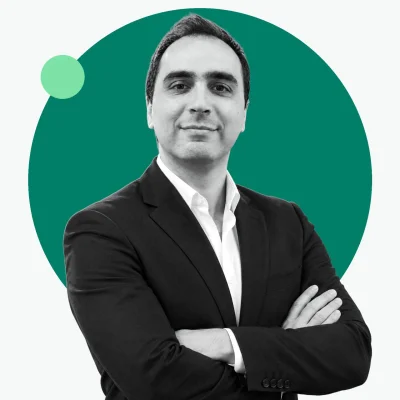
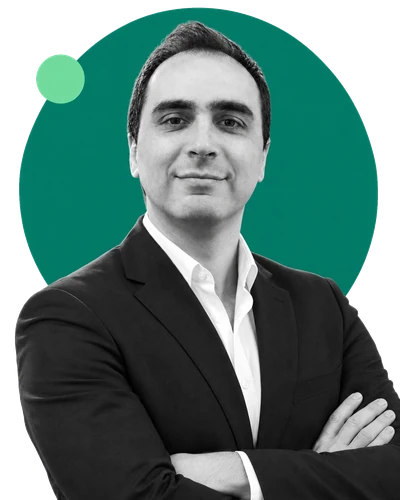
fix(team): show full portraits and align card content

diff --git a/css/production.css b/css/production.css
@@ -16,12 +16,13 @@
 .site .cookie-consent button:focus-visible,.site .cookie-preferences:focus-visible,.site .cookie-choice input:focus-visible{outline:3px solid #007e68;outline-offset:3px}
 /* Team profiles: portraits are served locally, without third-party image requests. */
 .site .team-grid{display:grid;grid-template-columns:repeat(4,minmax(0,1fr));gap:20px;margin-top:36px}
-.site .team-card{display:flex;flex-direction:column;align-items:flex-start;min-width:0;padding:24px;border:1px solid var(--line);border-radius:18px;background:var(--surface)}
-.site .team-portrait{display:block;width:160px;height:160px;max-width:100%;object-fit:cover;border-radius:16px}
-.site .team-card h3{font-size:1.25rem;line-height:1.2;margin:24px 0 12px}
-.site .team-card p{font-size:.9rem;color:var(--muted);margin:0 0 20px}
-.site .team-card .team-specialty{font-size:.85rem;font-weight:650;color:var(--green-deep)}
-.site .team-card a{margin-top:auto;color:var(--green-deep);font-size:.9rem;font-weight:600;text-underline-offset:4px}
+.site .team-card{display:flex;flex-direction:column;align-items:stretch;min-width:0;padding:24px;border:1px solid var(--line);border-radius:18px;background:var(--surface)}
+.site .team-portrait{display:block;align-self:flex-start;width:100%;height:auto;max-width:100%;object-fit:contain;object-position:left top;border-radius:16px}
+.site .team-card h3{font-size:1.25rem;line-height:1.2;min-height:2.4em;margin:24px 0 12px;text-align:left}
+.site .team-card p{font-size:.9rem;color:var(--muted);margin:0 0 20px;text-align:left}
+.site .team-card .team-specialty{font-size:.85rem;line-height:1.55;min-height:3.1em;font-weight:650;color:var(--green-deep);text-align:left}
+.site .team-card a{align-self:flex-start;margin-top:auto;color:var(--green-deep);font-size:.9rem;font-weight:600;text-underline-offset:4px}
+@supports(grid-template-rows:subgrid){.site .team-card{display:grid;grid-template-columns:minmax(0,1fr);grid-template-rows:subgrid;grid-row:span 5;row-gap:0;align-items:start}.site .team-portrait{justify-self:start}.site .team-card h3,.site .team-card .team-specialty{min-height:0}.site .team-card a{justify-self:start;align-self:end}}
 /* The Apps Garden 2026: shared visual system. Keep the legacy utility layer above for existing article markup. */
 .site{--ink:#172a25;--muted:#51645d;--green:#007e68;--green-deep:#006b59;--line:#d7e2dc;--surface:#f5f8f6;--dark:#102b25;background:#fff!important;color:var(--ink);font-family:Inter,"Helvetica Neue",Arial,sans-serif;font-size:16px;line-height:1.55}
 .site h1,.site h2,.site h3,.site h4,.site h5,.site h6,.site .h3,.site .btn{font-family:inherit}.site h1,.site h2,.site h3,.site h4{color:var(--ink);font-weight:650;letter-spacing:-.035em;line-height:1.1}.site h1{font-size:clamp(2.8rem,6.7vw,5.25rem)}.site h2{font-size:clamp(2rem,4.2vw,3.5rem)}.site h3{font-size:clamp(1.2rem,2vw,1.6rem)}.site p,.site li{line-height:1.55}.site a{color:inherit}.site a:focus-visible,.site summary:focus-visible{outline:3px solid var(--green);outline-offset:4px}.site .container{max-width:1200px;width:calc(100% - 64px)}.site .skip-link{position:absolute;top:-100px;left:16px;background:var(--ink);color:#fff;padding:12px 18px;z-index:99}.site .skip-link:focus{top:16px}.site .btn{display:inline-flex;align-items:center;justify-content:center;min-height:46px;padding:.65rem 1.45rem;font-size:.9rem;line-height:1.3;font-weight:600;border-radius:999px;white-space:normal;text-align:center;transition:background .18s ease,border-color .18s ease,color .18s ease;text-decoration:none}.site .btn--default{background:var(--green-deep);border-color:var(--green-deep);color:#fff}.site .btn--default:hover{background:#005344;border-color:#005344;color:#fff}.site .btn--outline{background:#fff;border-color:#b8cac0;color:var(--ink)}.site .btn--outline:hover{background:#eaf4ee;border-color:var(--green);color:var(--green-deep)}.site .btn--light{background:#dcf3e9;border-color:#dcf3e9;color:var(--ink)}.site .btn--light:hover{background:#fff;border-color:#fff;color:var(--ink)}.site .btn--sm{font-size:.9rem;padding:.65rem 1.35rem}.site .site-header{border-bottom:1px solid var(--line);background:#fff}.site .site-header .container{max-width:1200px}.site .header-inner{min-height:76px;display:flex;align-items:center;justify-content:space-between;gap:20px}.site .desktop-nav,.site .header-actions,.site .languages{display:flex;align-items:center;gap:22px}.site .desktop-nav a,.site .languages a{font-size:.91rem;font-weight:600;text-decoration:none}.site .desktop-nav a:hover,.site .languages a:hover,.site .desktop-nav a[aria-current=page],.site .languages a[aria-current=page]{color:var(--green)}.site .header-actions{gap:18px}.site .header-actions .btn{min-height:40px;padding:.55rem 1.25rem}.site .languages{gap:10px}.site .languages a{font-size:.72rem}.site .mobile-menu{display:none}.site .eyebrow{font-size:.72rem;font-weight:700;letter-spacing:.11em;text-transform:uppercase;color:var(--green);margin-bottom:28px}.site .status-dot{display:inline-block;width:8px;height:8px;border-radius:50%;background:var(--green);margin-right:8px}.site .hero{padding:112px 0 132px}.site .hero h1{max-width:900px;margin-bottom:28px}.site .hero-copy{max-width:650px;font-size:1.18rem;color:var(--muted);line-height:1.55}.site .actions{display:flex;gap:12px;flex-wrap:wrap;margin-top:36px}.site .section{padding:110px 0}.site .section--soft{background:var(--surface);border-top:1px solid var(--line);border-bottom:1px solid var(--line)}.site .section-heading{display:flex;justify-content:space-between;align-items:end;gap:48px;margin-bottom:46px}.site .section-heading h2{margin:0;max-width:700px}.site .section-heading .eyebrow{margin-bottom:18px}.site .section-heading>p{max-width:330px;color:var(--muted)}.site .feature-grid{display:grid;grid-template-columns:repeat(3,1fr);gap:16px}.site .feature-card{min-width:0;background:#fff;border:1px solid var(--line);border-radius:18px;padding:36px;min-height:290px}.site .card-index,.site .step-number{font:600 .8rem ui-monospace,SFMono-Regular,Menlo,monospace;color:var(--green)}.site .feature-card h3{margin:45px 0 14px}.site .feature-card p,.site .steps p{color:var(--muted)}.site .text-link{display:inline-block;margin-top:30px;text-decoration:none;color:var(--green);font-weight:600}.site .text-link:hover{text-decoration:underline}.site .showcase{display:grid;grid-template-columns:1fr 1fr;border:1px solid var(--line);border-radius:22px;overflow:hidden}.site .showcase-art{position:relative;background:#eaf4ee;display:grid;place-items:center;padding:64px 30px}.site .showcase-art img{display:block;width:min(100%,360px);height:auto}.site .showcase-label{position:absolute;left:26px;top:22px;font:600 .65rem ui-monospace,Menlo,monospace;color:var(--green);letter-spacing:.08em}.site .showcase-copy{display:flex;flex-direction:column;align-items:start;justify-content:center;padding:clamp(32px,5vw,80px)}.site .showcase-copy h3{font-size:clamp(1.8rem,3vw,2.8rem);margin-bottom:20px}.site .showcase-copy p{color:var(--muted);margin-bottom:36px}.site .steps{display:grid;grid-template-columns:repeat(4,1fr);gap:16px;list-style:none;margin:0}.site .steps li{padding:28px 22px;border-top:1px solid #a4beb0}.site .steps h3{margin:30px 0 12px}.site .section--dark{background:var(--dark);color:#fff;border:0}.site .dark-inner{display:flex;justify-content:space-between;align-items:center;gap:48px}.site .section--dark h2{color:#fff;max-width:660px}.site .section--dark .eyebrow{color:#84d5b2}.site .section--dark p:not(.eyebrow){color:#c7d9ce;max-width:570px;font-size:1.1rem}.site .site-footer{padding:75px 0 24px;background:#fff}.site .footer-grid{display:grid;grid-template-columns:2fr 1fr 1fr;gap:48px;padding-bottom:84px}.site .footer-grid .footer-brand .brand{display:inline-flex;color:var(--green);margin-bottom:22px}.site .footer-brand p{color:var(--muted);max-width:270px}.site .footer-grid h2{font-size:.83rem;letter-spacing:0;margin:6px 0 22px}.site .footer-grid a{display:block;margin:0 0 12px;text-decoration:none;color:var(--muted);font-size:.87rem;overflow-wrap:anywhere}.site .footer-grid a:hover,.site .footer-bottom a:hover{color:var(--green)}.site .footer-bottom{display:flex;justify-content:space-between;gap:20px;border-top:1px solid var(--line);padding-top:22px;color:var(--muted);font-size:.8rem}.site .footer-bottom a{margin-left:14px;text-decoration:none;font-weight:600}.site .page-hero{background:var(--surface);border-bottom:1px solid var(--line);padding:100px 0 90px}.site .page-hero h1{max-width:950px;margin-bottom:24px}.site .page-intro{max-width:710px;font-size:1.18rem;color:var(--muted)}.site .article-date{color:var(--muted);margin-top:20px;font-size:.85rem}.site .page-content{padding:70px 0 115px}.site .page-content .container{max-width:1200px}.site .page-content section{padding-top:30px;padding-bottom:55px}.site .page-content section h2{margin-bottom:30px}.site .page-content .grid-row{row-gap:16px}.site .page-content .grid-column{min-width:0}.site .page-content .blockquote{background:var(--surface);border:1px solid var(--line);border-radius:16px;padding:26px;height:100%;margin:0;font-family:inherit}.site .page-content .blockquote p+p{margin-top:14px;color:var(--muted)}.site .page-content .blockquote cite{color:var(--ink)}.site .page-content .grid-column>.blockquote+.blockquote{margin-top:16px}.site .page-content .grid-column{display:flex;flex-direction:column}.site .page-content .list--inline{font-size:1rem;list-style:disc;padding-left:22px;text-align:left}.site .page-content .list--inline li{display:list-item;font-size:1rem;margin-bottom:12px}.site .page-content .align--center .list--inline{text-align:left}.site .page-content .product-card{display:grid;grid-template-columns:1fr 1.5fr;max-width:1000px;margin:0 auto 30px;background:#fff;border:1px solid var(--line);border-radius:20px;overflow:hidden}.site .product-card>div:first-child{display:grid;place-items:center;padding:36px;background:#eaf4ee}.site .product-card>div:last-child{display:flex;flex-direction:column;align-items:start;justify-content:center;padding:48px}.site .product-card img{width:100%;max-width:280px;height:auto}.site .product-card p{margin-bottom:26px;color:var(--muted)}.site .page--products .page-content>div>.container{max-width:860px}.site .page--products .page-content .product-list{max-width:1100px;margin:auto}.site .page--products .page-content img{max-height:400px;object-fit:contain}.site .page--blog .blog-list{max-width:850px;text-align:left}.site .blog-list article{background:#fff;border:1px solid var(--line);border-radius:18px;padding:34px;margin-bottom:16px}.site .blog-list article h2{font-size:1.4rem;margin-bottom:12px}.site .page--blog .blog-list article h2 a.link{color:var(--ink);text-decoration:none}.site .page--blog .blog-list article h2 a.link:hover{color:var(--green)}.site .blog-list article p{margin-bottom:16px}.site .blog-list article .small{color:var(--muted)}.site .empty-state{border:1px solid var(--line);border-radius:18px;padding:52px;text-align:center}.site .empty-state p{margin-bottom:26px}.site .article-content{max-width:800px!important}.site .article-content article h2{font-size:1.8rem;margin:36px 0 18px}.site .article-content article h3{margin:28px 0 14px}.site .article-content article p,.site .article-content article ul{margin-bottom:22px;overflow-wrap:anywhere}.site .article-content article a,.site .page-content .link{color:var(--green)}.site .article-content article blockquote{padding:24px;border-left:3px solid var(--green);background:var(--surface)}.site .page-content .result-panel{background:var(--dark);color:#fff;border-radius:18px;padding:36px}.site .page-content .result-panel h3,.site .page-content .result-panel h4{color:#fff}.site .page-content .result-panel .grid-column{display:block}

diff --git a/es/about.html b/es/about.html
@@ -15,7 +15,7 @@
   <meta property="og:image" content="https://theappsgarden.com/img/process-to-progress.webp">
   <link rel="icon" href="../ico/favicon.ico">
   <link rel="apple-touch-icon" href="../ico/apple-touch-icon.png">
-  <link rel="stylesheet" href="../css/production.css?v=20260929-workflow-stack">
+  <link rel="stylesheet" href="../css/production.css?v=team-cards-aligned-1">
   <link rel="stylesheet" href="../css/responsive-overrides.css">
   <script defer src="../js/production.js"></script>
 </head>
@@ -24,10 +24,10 @@
   <header class="site-header"><div class="container header-inner"><a class="brand" href="../es/index.html" aria-label="The Apps Garden — Inicio"><img class="brand-mark" src="../img/green_logo_no_name.svg" alt="" width="85" height="119" aria-hidden="true"><span class="brand-name" aria-hidden="true">The Apps Garden</span></a><nav class="desktop-nav" aria-label="Recursos"><a href="../es/about.html" aria-current="page">Nosotros</a><a href="../es/services.html">Servicios</a><a href="../es/products.html">Productos</a></nav><div class="header-actions"><div class="languages" aria-label="Idiomas"><a href="../es/about.html" aria-current="page" lang="es" hreflang="es">ES</a><a href="../en/about.html" lang="en" hreflang="en">EN</a><a href="../cat/about.html" lang="ca" hreflang="ca">CAT</a></div><a class="btn btn--default" href="../es/index.html#contact">Hablemos</a></div><details class="mobile-menu"><summary aria-label="Abrir navegación">Menú <span aria-hidden="true">☰</span></summary><nav aria-label="Recursos"><a href="../es/about.html" aria-current="page">Nosotros</a><a href="../es/services.html">Servicios</a><a href="../es/products.html">Productos</a><div class="mobile-languages"><a href="../es/about.html" lang="es">ES</a><a href="../en/about.html" lang="en">EN</a><a href="../cat/about.html" lang="ca">CAT</a></div><a class="btn btn--default" href="../es/index.html#contact">Hablemos</a></nav></details></div></header>
   <main id="main" class="consulting-page">
 <section class="page-hero"><div class="container"><p class="eyebrow">THE APPS GARDEN / AI</p><h1>Las personas detrás de The Apps Garden</h1><p class="page-intro">Cuatro trayectorias distintas y un proyecto compartido: hacer que la tecnología sea útil para quienes trabajan con ella.</p><div class="actions"><a class="btn btn--default" href="../es/index.html#contact">Pide una primera reunión gratuita</a></div></div></section><section class="section"><div class="container"><h2>Nosotros</h2><p>The Apps Garden nace de una frustración compartida: las empresas oyen hablar de IA a diario, pero nadie les dice cuál usar, cuánto cuesta de verdad ni cómo encaja con lo que ya tienen. Nosotros llevamos años usando estas herramientas en proyectos reales. Por eso sabemos distinguir lo útil del ruido. Nuestro único criterio es lo que mejor le va a tu empresa.</p></div></section><section class="section" id="team" aria-labelledby="team-title"><div class="container"><h2 id="team-title">El equipo</h2><p class="lead">Cuatro trayectorias que combinan operaciones, dirección, desarrollo de software y creación audiovisual.</p><div class="team-grid">
-<article class="team-card"><img class="team-portrait" src="../img/team/guillem-gutierrez-martinez.webp?v=owner-portrait-1" alt="Guillem Gutierrez Martinez" width="400" height="400" loading="lazy"><h3>Guillem Gutierrez Martinez</h3><p class="team-specialty">Consultor de IA · Operaciones</p><p>Experiencia en dirección de proyectos de maquinaria industrial, desde el diseño hasta la puesta en marcha. Formación de máster en producción y gestión audiovisual, con foco en planificación, guion y coordinación de equipos.</p><a href="https://www.linkedin.com/in/guillem-gutierrez-martinez-bb04875b/" target="_blank" rel="noopener noreferrer" aria-label="LinkedIn de Guillem Gutierrez Martinez">LinkedIn ↗</a></article>
-<article class="team-card"><img class="team-portrait" src="../img/team/adria-gutierrez-martinez.webp" alt="Adrià Gutiérrez Martínez" width="200" height="200" loading="lazy"><h3>Adrià Gutiérrez Martínez</h3><p class="team-specialty">Consultor de IA · Operaciones</p><p>Ingeniero TIC y director general con experiencia en operaciones y gestión de proyectos. Combina una perspectiva técnica con la visión de dirección para entender las necesidades del negocio.</p><a href="https://www.linkedin.com/in/adri%C3%A0-guti%C3%A9rrez-mart%C3%ADnez-a83149112/" target="_blank" rel="noopener noreferrer" aria-label="LinkedIn de Adrià Gutiérrez Martínez">LinkedIn ↗</a></article>
-<article class="team-card"><img class="team-portrait" src="../img/team/adria-martin-torrens.webp" alt="Adrià Martín Torrens" width="200" height="200" loading="lazy"><h3>Adrià Martín Torrens</h3><p class="team-specialty">Consultor de IA · Área técnica</p><p>Trayectoria profesional vinculada a Cegid Revo y experiencia en desarrollo de aplicaciones. Su proyecto de aplicación Android para registrar gastos comerciales conectaba el trabajo del equipo con el software de gestión.</p><a href="https://www.linkedin.com/in/adria-martin-torrens/" target="_blank" rel="noopener noreferrer" aria-label="LinkedIn de Adrià Martín Torrens">LinkedIn ↗</a></article>
-<article class="team-card"><img class="team-portrait" src="../img/team/damian-martinez-carmona.webp?v=owner-portrait-1" alt="Damián Martínez Carmona" width="400" height="400" loading="lazy"><h3>Damián Martínez Carmona</h3><p class="team-specialty">Consultor de IA · Área técnica</p><p>Emprendedor tecnológico e ingeniero con experiencia creando productos digitales y plataformas de datos. Su trabajo se centra en la intersección entre IA, ingeniería de datos y automatización de tareas.</p><a href="https://www.linkedin.com/in/damian-martinez-carmona" target="_blank" rel="noopener noreferrer" aria-label="LinkedIn de Damián Martínez Carmona">LinkedIn ↗</a></article>
+<article class="team-card"><img class="team-portrait" src="../img/team/guillem-gutierrez-martinez.webp?v=owner-portrait-4" alt="Guillem Gutierrez Martinez" width="400" height="500" loading="lazy"><h3>Guillem Gutierrez Martinez</h3><p class="team-specialty">Consultor de IA · Operaciones</p><p>Experiencia en dirección de proyectos de maquinaria industrial, desde el diseño hasta la puesta en marcha. Formación de máster en producción y gestión audiovisual, con foco en planificación, guion y coordinación de equipos.</p><a href="https://www.linkedin.com/in/guillem-gutierrez-martinez-bb04875b/" target="_blank" rel="noopener noreferrer" aria-label="LinkedIn de Guillem Gutierrez Martinez">LinkedIn ↗</a></article>
+<article class="team-card"><img class="team-portrait" src="../img/team/adria-gutierrez-martinez.webp?v=owner-portrait-3" alt="Adrià Gutiérrez Martínez" width="400" height="500" loading="lazy"><h3>Adrià Gutiérrez Martínez</h3><p class="team-specialty">Consultor de IA · Operaciones</p><p>Ingeniero TIC y director general con experiencia en operaciones y gestión de proyectos. Combina una perspectiva técnica con la visión de dirección para entender las necesidades del negocio.</p><a href="https://www.linkedin.com/in/adri%C3%A0-guti%C3%A9rrez-mart%C3%ADnez-a83149112/" target="_blank" rel="noopener noreferrer" aria-label="LinkedIn de Adrià Gutiérrez Martínez">LinkedIn ↗</a></article>
+<article class="team-card"><img class="team-portrait" src="../img/team/adria-martin-torrens.webp?v=owner-portrait-3" alt="Adrià Martín Torrens" width="400" height="500" loading="lazy"><h3>Adrià Martín Torrens</h3><p class="team-specialty">Consultor de IA · Área técnica</p><p>Trayectoria profesional vinculada a Cegid Revo y experiencia en desarrollo de aplicaciones. Su proyecto de aplicación Android para registrar gastos comerciales conectaba el trabajo del equipo con el software de gestión.</p><a href="https://www.linkedin.com/in/adria-martin-torrens/" target="_blank" rel="noopener noreferrer" aria-label="LinkedIn de Adrià Martín Torrens">LinkedIn ↗</a></article>
+<article class="team-card"><img class="team-portrait" src="../img/team/damian-martinez-carmona.webp?v=owner-portrait-3" alt="Damián Martínez Carmona" width="400" height="500" loading="lazy"><h3>Damián Martínez Carmona</h3><p class="team-specialty">Consultor de IA · Área técnica</p><p>Emprendedor tecnológico e ingeniero con experiencia creando productos digitales y plataformas de datos. Su trabajo se centra en la intersección entre IA, ingeniería de datos y automatización de tareas.</p><a href="https://www.linkedin.com/in/damian-martinez-carmona" target="_blank" rel="noopener noreferrer" aria-label="LinkedIn de Damián Martínez Carmona">LinkedIn ↗</a></article>
 </div></div></section><section class="section section--dark" id="contact"><div class="container dark-inner"><div><h2>Conozcámonos en una primera conversación</h2><p>Cuéntanos cómo es tu equipo y qué trabajo os gustaría mejorar.</p><a class="text-link" id="process" href="../es/index.html#process">Ver cómo trabajamos ↗</a></div><a class="btn btn--light" href="../es/index.html#contact">Hablar con el equipo</a></div></section>
 </main>
   <footer class="site-footer"><div class="container"><div class="footer-grid"><div class="footer-brand"><a class="brand" href="../es/index.html" aria-label="The Apps Garden — Inicio"><img class="brand-mark" src="../img/green_logo_no_name.svg" alt="" width="85" height="119" aria-hidden="true"><span class="brand-name" aria-hidden="true">The Apps Garden</span></a><p>Consultoría independiente de inteligencia artificial</p></div><div><h2>The Apps Garden</h2><a href="../es/index.html">Inicio</a><a href="../es/about.html">Nosotros</a><a href="../es/services.html">Servicios</a><a href="../es/products.html">Productos</a></div><div><h2>Hablemos</h2><a href="mailto:team@theappsgarden.com">team@theappsgarden.com</a><a href="https://www.linkedin.com/company/the-apps-garden" target="_blank" rel="noopener noreferrer">LinkedIn ↗</a><a href="https://www.instagram.com/theappsgarden/" target="_blank" rel="noopener noreferrer">Instagram ↗</a></div></div><div class="footer-bottom"><span>© The Apps Garden · Todos los derechos reservados.</span><div><a href="../es/about.html" lang="es">ES</a><a href="../en/about.html" lang="en">EN</a><a href="../cat/about.html" lang="ca">CAT</a></div></div></div></footer>

diff --git a/cat/about.html b/cat/about.html
@@ -15,7 +15,7 @@
   <meta property="og:image" content="https://theappsgarden.com/img/process-to-progress.webp">
   <link rel="icon" href="../ico/favicon.ico">
   <link rel="apple-touch-icon" href="../ico/apple-touch-icon.png">
-  <link rel="stylesheet" href="../css/production.css?v=20260929-workflow-stack">
+  <link rel="stylesheet" href="../css/production.css?v=team-cards-aligned-1">
   <link rel="stylesheet" href="../css/responsive-overrides.css">
   <script defer src="../js/production.js"></script>
 </head>
@@ -24,10 +24,10 @@
   <header class="site-header"><div class="container header-inner"><a class="brand" href="../cat/index.html" aria-label="The Apps Garden — Inici"><img class="brand-mark" src="../img/green_logo_no_name.svg" alt="" width="85" height="119" aria-hidden="true"><span class="brand-name" aria-hidden="true">The Apps Garden</span></a><nav class="desktop-nav" aria-label="Recursos"><a href="../cat/about.html" aria-current="page">Nosaltres</a><a href="../cat/services.html">Serveis</a><a href="../cat/products.html">Productes</a></nav><div class="header-actions"><div class="languages" aria-label="Idiomes"><a href="../es/about.html" lang="es" hreflang="es">ES</a><a href="../en/about.html" lang="en" hreflang="en">EN</a><a href="../cat/about.html" aria-current="page" lang="ca" hreflang="ca">CAT</a></div><a class="btn btn--default" href="../cat/index.html#contact">Parlem-ne</a></div><details class="mobile-menu"><summary aria-label="Obrir la navegació">Menú <span aria-hidden="true">☰</span></summary><nav aria-label="Recursos"><a href="../cat/about.html" aria-current="page">Nosaltres</a><a href="../cat/services.html">Serveis</a><a href="../cat/products.html">Productes</a><div class="mobile-languages"><a href="../es/about.html" lang="es">ES</a><a href="../en/about.html" lang="en">EN</a><a href="../cat/about.html" lang="ca">CAT</a></div><a class="btn btn--default" href="../cat/index.html#contact">Parlem-ne</a></nav></details></div></header>
   <main id="main" class="consulting-page">
 <section class="page-hero"><div class="container"><p class="eyebrow">THE APPS GARDEN / AI</p><h1>Les persones darrere de The Apps Garden</h1><p class="page-intro">Quatre trajectòries diferents i un projecte compartit: fer que la tecnologia sigui útil per a qui hi treballa.</p><div class="actions"><a class="btn btn--default" href="../cat/index.html#contact">Demana una primera reunió gratuïta</a></div></div></section><section class="section"><div class="container"><h2>Nosaltres</h2><p>The Apps Garden neix d’una frustració compartida: les empreses senten parlar d’IA cada dia, però ningú no els diu quina fer servir, quant costa de debò ni com encaixa amb el que ja tenen. Fa anys que utilitzem aquestes eines en projectes reals. Per això sabem distingir allò que és útil del soroll. El nostre únic criteri és el que va millor a la teva empresa.</p></div></section><section class="section" id="team" aria-labelledby="team-title"><div class="container"><h2 id="team-title">L’equip</h2><p class="lead">Quatre trajectòries que combinen operacions, direcció, desenvolupament de programari i creació audiovisual.</p><div class="team-grid">
-<article class="team-card"><img class="team-portrait" src="../img/team/guillem-gutierrez-martinez.webp?v=owner-portrait-1" alt="Guillem Gutierrez Martinez" width="400" height="400" loading="lazy"><h3>Guillem Gutierrez Martinez</h3><p class="team-specialty">Consultor d’IA · Operacions</p><p>Experiència en direcció de projectes de maquinària industrial, des del disseny fins a la posada en marxa. Formació de màster en producció i gestió audiovisual, amb focus en planificació, guió i coordinació d’equips.</p><a href="https://www.linkedin.com/in/guillem-gutierrez-martinez-bb04875b/" target="_blank" rel="noopener noreferrer" aria-label="LinkedIn de Guillem Gutierrez Martinez">LinkedIn ↗</a></article>
-<article class="team-card"><img class="team-portrait" src="../img/team/adria-gutierrez-martinez.webp" alt="Adrià Gutiérrez Martínez" width="200" height="200" loading="lazy"><h3>Adrià Gutiérrez Martínez</h3><p class="team-specialty">Consultor d’IA · Operacions</p><p>Enginyer TIC i director general amb experiència en operacions i gestió de projectes. Combina una perspectiva tècnica amb la visió de direcció per entendre les necessitats del negoci.</p><a href="https://www.linkedin.com/in/adri%C3%A0-guti%C3%A9rrez-mart%C3%ADnez-a83149112/" target="_blank" rel="noopener noreferrer" aria-label="LinkedIn d’Adrià Gutiérrez Martínez">LinkedIn ↗</a></article>
-<article class="team-card"><img class="team-portrait" src="../img/team/adria-martin-torrens.webp" alt="Adrià Martín Torrens" width="200" height="200" loading="lazy"><h3>Adrià Martín Torrens</h3><p class="team-specialty">Consultor d’IA · Àrea tècnica</p><p>Trajectòria professional vinculada a Cegid Revo i experiència en desenvolupament d’aplicacions. El seu projecte d’aplicació Android per registrar despeses comercials connectava la feina de l’equip amb el programari de gestió.</p><a href="https://www.linkedin.com/in/adria-martin-torrens/" target="_blank" rel="noopener noreferrer" aria-label="LinkedIn d’Adrià Martín Torrens">LinkedIn ↗</a></article>
-<article class="team-card"><img class="team-portrait" src="../img/team/damian-martinez-carmona.webp?v=owner-portrait-1" alt="Damián Martínez Carmona" width="400" height="400" loading="lazy"><h3>Damián Martínez Carmona</h3><p class="team-specialty">Consultor d’IA · Àrea tècnica</p><p>Emprenedor tecnològic i enginyer amb experiència creant productes digitals i plataformes de dades. Se centra en la intersecció entre IA, enginyeria de dades i automatització de tasques.</p><a href="https://www.linkedin.com/in/damian-martinez-carmona" target="_blank" rel="noopener noreferrer" aria-label="LinkedIn de Damián Martínez Carmona">LinkedIn ↗</a></article>
+<article class="team-card"><img class="team-portrait" src="../img/team/guillem-gutierrez-martinez.webp?v=owner-portrait-4" alt="Guillem Gutierrez Martinez" width="400" height="500" loading="lazy"><h3>Guillem Gutierrez Martinez</h3><p class="team-specialty">Consultor d’IA · Operacions</p><p>Experiència en direcció de projectes de maquinària industrial, des del disseny fins a la posada en marxa. Formació de màster en producció i gestió audiovisual, amb focus en planificació, guió i coordinació d’equips.</p><a href="https://www.linkedin.com/in/guillem-gutierrez-martinez-bb04875b/" target="_blank" rel="noopener noreferrer" aria-label="LinkedIn de Guillem Gutierrez Martinez">LinkedIn ↗</a></article>
+<article class="team-card"><img class="team-portrait" src="../img/team/adria-gutierrez-martinez.webp?v=owner-portrait-3" alt="Adrià Gutiérrez Martínez" width="400" height="500" loading="lazy"><h3>Adrià Gutiérrez Martínez</h3><p class="team-specialty">Consultor d’IA · Operacions</p><p>Enginyer TIC i director general amb experiència en operacions i gestió de projectes. Combina una perspectiva tècnica amb la visió de direcció per entendre les necessitats del negoci.</p><a href="https://www.linkedin.com/in/adri%C3%A0-guti%C3%A9rrez-mart%C3%ADnez-a83149112/" target="_blank" rel="noopener noreferrer" aria-label="LinkedIn d’Adrià Gutiérrez Martínez">LinkedIn ↗</a></article>
+<article class="team-card"><img class="team-portrait" src="../img/team/adria-martin-torrens.webp?v=owner-portrait-3" alt="Adrià Martín Torrens" width="400" height="500" loading="lazy"><h3>Adrià Martín Torrens</h3><p class="team-specialty">Consultor d’IA · Àrea tècnica</p><p>Trajectòria professional vinculada a Cegid Revo i experiència en desenvolupament d’aplicacions. El seu projecte d’aplicació Android per registrar despeses comercials connectava la feina de l’equip amb el programari de gestió.</p><a href="https://www.linkedin.com/in/adria-martin-torrens/" target="_blank" rel="noopener noreferrer" aria-label="LinkedIn d’Adrià Martín Torrens">LinkedIn ↗</a></article>
+<article class="team-card"><img class="team-portrait" src="../img/team/damian-martinez-carmona.webp?v=owner-portrait-3" alt="Damián Martínez Carmona" width="400" height="500" loading="lazy"><h3>Damián Martínez Carmona</h3><p class="team-specialty">Consultor d’IA · Àrea tècnica</p><p>Emprenedor tecnològic i enginyer amb experiència creant productes digitals i plataformes de dades. Se centra en la intersecció entre IA, enginyeria de dades i automatització de tasques.</p><a href="https://www.linkedin.com/in/damian-martinez-carmona" target="_blank" rel="noopener noreferrer" aria-label="LinkedIn de Damián Martínez Carmona">LinkedIn ↗</a></article>
 </div></div></section><section class="section section--dark" id="contact"><div class="container dark-inner"><div><h2>Coneguem-nos en una primera conversa</h2><p>Explica’ns com és el teu equip i quina feina us agradaria millorar.</p><a class="text-link" id="process" href="../cat/index.html#process">Mira com treballem ↗</a></div><a class="btn btn--light" href="../cat/index.html#contact">Parlar amb l’equip</a></div></section>
 </main>
   <footer class="site-footer"><div class="container"><div class="footer-grid"><div class="footer-brand"><a class="brand" href="../cat/index.html" aria-label="The Apps Garden — Inici"><img class="brand-mark" src="../img/green_logo_no_name.svg" alt="" width="85" height="119" aria-hidden="true"><span class="brand-name" aria-hidden="true">The Apps Garden</span></a><p>Consultoria independent d’intel·ligència artificial</p></div><div><h2>The Apps Garden</h2><a href="../cat/index.html">Inici</a><a href="../cat/about.html">Nosaltres</a><a href="../cat/services.html">Serveis</a><a href="../cat/products.html">Productes</a></div><div><h2>Parlem-ne</h2><a href="mailto:team@theappsgarden.com">team@theappsgarden.com</a><a href="https://www.linkedin.com/company/the-apps-garden" target="_blank" rel="noopener noreferrer">LinkedIn ↗</a><a href="https://www.instagram.com/theappsgarden/" target="_blank" rel="noopener noreferrer">Instagram ↗</a></div></div><div class="footer-bottom"><span>© The Apps Garden · Tots els drets reservats.</span><div><a href="../es/about.html" lang="es">ES</a><a href="../en/about.html" lang="en">EN</a><a href="../cat/about.html" lang="ca">CAT</a></div></div></div></footer>

diff --git a/en/about.html b/en/about.html
@@ -15,7 +15,7 @@
   <meta property="og:image" content="https://theappsgarden.com/img/process-to-progress.webp">
   <link rel="icon" href="../ico/favicon.ico">
   <link rel="apple-touch-icon" href="../ico/apple-touch-icon.png">
-  <link rel="stylesheet" href="../css/production.css?v=20260929-workflow-stack">
+  <link rel="stylesheet" href="../css/production.css?v=team-cards-aligned-1">
   <link rel="stylesheet" href="../css/responsive-overrides.css">
   <script defer src="../js/production.js"></script>
 </head>
@@ -24,10 +24,10 @@
   <header class="site-header"><div class="container header-inner"><a class="brand" href="../en/index.html" aria-label="The Apps Garden — Home"><img class="brand-mark" src="../img/green_logo_no_name.svg" alt="" width="85" height="119" aria-hidden="true"><span class="brand-name" aria-hidden="true">The Apps Garden</span></a><nav class="desktop-nav" aria-label="Resources"><a href="../en/about.html" aria-current="page">About us</a><a href="../en/services.html">Services</a><a href="../en/products.html">Products</a></nav><div class="header-actions"><div class="languages" aria-label="Languages"><a href="../es/about.html" lang="es" hreflang="es">ES</a><a href="../en/about.html" aria-current="page" lang="en" hreflang="en">EN</a><a href="../cat/about.html" lang="ca" hreflang="ca">CAT</a></div><a class="btn btn--default" href="../en/index.html#contact">Get in touch</a></div><details class="mobile-menu"><summary aria-label="Open navigation">Menu <span aria-hidden="true">☰</span></summary><nav aria-label="Resources"><a href="../en/about.html" aria-current="page">About us</a><a href="../en/services.html">Services</a><a href="../en/products.html">Products</a><div class="mobile-languages"><a href="../es/about.html" lang="es">ES</a><a href="../en/about.html" lang="en">EN</a><a href="../cat/about.html" lang="ca">CAT</a></div><a class="btn btn--default" href="../en/index.html#contact">Get in touch</a></nav></details></div></header>
   <main id="main" class="consulting-page">
 <section class="page-hero"><div class="container"><p class="eyebrow">THE APPS GARDEN / AI</p><h1>The people behind The Apps Garden</h1><p class="page-intro">Four different backgrounds, one shared project: making technology useful to the people who work with it.</p><div class="actions"><a class="btn btn--default" href="../en/index.html#contact">Request a free first meeting</a></div></div></section><section class="section"><div class="container"><h2>About us</h2><p>The Apps Garden grew out of a shared frustration: businesses hear about AI every day, but nobody tells them which tools to use, what they really cost or how they fit with what they already have. We have spent years using these tools on real projects. We know how to separate useful technology from noise. Our only criterion is what works best for your business.</p></div></section><section class="section" id="team" aria-labelledby="team-title"><div class="container"><h2 id="team-title">Meet the team</h2><p class="lead">Four backgrounds combining operations, management, software development and audiovisual production.</p><div class="team-grid">
-<article class="team-card"><img class="team-portrait" src="../img/team/guillem-gutierrez-martinez.webp?v=owner-portrait-1" alt="Guillem Gutierrez Martinez" width="400" height="400" loading="lazy"><h3>Guillem Gutierrez Martinez</h3><p class="team-specialty">AI Consultant · Operations</p><p>Experience leading industrial machinery projects from design to commissioning. Master’s-level training in audiovisual production and management, focused on planning, scriptwriting and team coordination.</p><a href="https://www.linkedin.com/in/guillem-gutierrez-martinez-bb04875b/" target="_blank" rel="noopener noreferrer" aria-label="Guillem Gutierrez Martinez on LinkedIn">LinkedIn ↗</a></article>
-<article class="team-card"><img class="team-portrait" src="../img/team/adria-gutierrez-martinez.webp" alt="Adrià Gutiérrez Martínez" width="200" height="200" loading="lazy"><h3>Adrià Gutiérrez Martínez</h3><p class="team-specialty">AI Consultant · Operations</p><p>ICT engineer and managing director with experience in operations and project management. Combines a technical perspective with a management outlook to understand business needs.</p><a href="https://www.linkedin.com/in/adri%C3%A0-guti%C3%A9rrez-mart%C3%ADnez-a83149112/" target="_blank" rel="noopener noreferrer" aria-label="Adrià Gutiérrez Martínez on LinkedIn">LinkedIn ↗</a></article>
-<article class="team-card"><img class="team-portrait" src="../img/team/adria-martin-torrens.webp" alt="Adrià Martín Torrens" width="200" height="200" loading="lazy"><h3>Adrià Martín Torrens</h3><p class="team-specialty">AI Consultant · Technical</p><p>A professional background with Cegid Revo and experience in application development. His Android expense-reporting project connected sales teams’ day-to-day work with business management software.</p><a href="https://www.linkedin.com/in/adria-martin-torrens/" target="_blank" rel="noopener noreferrer" aria-label="Adrià Martín Torrens on LinkedIn">LinkedIn ↗</a></article>
-<article class="team-card"><img class="team-portrait" src="../img/team/damian-martinez-carmona.webp?v=owner-portrait-1" alt="Damián Martínez Carmona" width="400" height="400" loading="lazy"><h3>Damián Martínez Carmona</h3><p class="team-specialty">AI Consultant · Technical</p><p>Tech entrepreneur and engineer with experience building digital products and data platforms. Focuses on the intersection of AI, data engineering and task automation.</p><a href="https://www.linkedin.com/in/damian-martinez-carmona" target="_blank" rel="noopener noreferrer" aria-label="Damián Martínez Carmona on LinkedIn">LinkedIn ↗</a></article>
+<article class="team-card"><img class="team-portrait" src="../img/team/guillem-gutierrez-martinez.webp?v=owner-portrait-4" alt="Guillem Gutierrez Martinez" width="400" height="500" loading="lazy"><h3>Guillem Gutierrez Martinez</h3><p class="team-specialty">AI Consultant · Operations</p><p>Experience leading industrial machinery projects from design to commissioning. Master’s-level training in audiovisual production and management, focused on planning, scriptwriting and team coordination.</p><a href="https://www.linkedin.com/in/guillem-gutierrez-martinez-bb04875b/" target="_blank" rel="noopener noreferrer" aria-label="Guillem Gutierrez Martinez on LinkedIn">LinkedIn ↗</a></article>
+<article class="team-card"><img class="team-portrait" src="../img/team/adria-gutierrez-martinez.webp?v=owner-portrait-3" alt="Adrià Gutiérrez Martínez" width="400" height="500" loading="lazy"><h3>Adrià Gutiérrez Martínez</h3><p class="team-specialty">AI Consultant · Operations</p><p>ICT engineer and managing director with experience in operations and project management. Combines a technical perspective with a management outlook to understand business needs.</p><a href="https://www.linkedin.com/in/adri%C3%A0-guti%C3%A9rrez-mart%C3%ADnez-a83149112/" target="_blank" rel="noopener noreferrer" aria-label="Adrià Gutiérrez Martínez on LinkedIn">LinkedIn ↗</a></article>
+<article class="team-card"><img class="team-portrait" src="../img/team/adria-martin-torrens.webp?v=owner-portrait-3" alt="Adrià Martín Torrens" width="400" height="500" loading="lazy"><h3>Adrià Martín Torrens</h3><p class="team-specialty">AI Consultant · Technical</p><p>A professional background with Cegid Revo and experience in application development. His Android expense-reporting project connected sales teams’ day-to-day work with business management software.</p><a href="https://www.linkedin.com/in/adria-martin-torrens/" target="_blank" rel="noopener noreferrer" aria-label="Adrià Martín Torrens on LinkedIn">LinkedIn ↗</a></article>
+<article class="team-card"><img class="team-portrait" src="../img/team/damian-martinez-carmona.webp?v=owner-portrait-3" alt="Damián Martínez Carmona" width="400" height="500" loading="lazy"><h3>Damián Martínez Carmona</h3><p class="team-specialty">AI Consultant · Technical</p><p>Tech entrepreneur and engineer with experience building digital products and data platforms. Focuses on the intersection of AI, data engineering and task automation.</p><a href="https://www.linkedin.com/in/damian-martinez-carmona" target="_blank" rel="noopener noreferrer" aria-label="Damián Martínez Carmona on LinkedIn">LinkedIn ↗</a></article>
 </div></div></section><section class="section section--dark" id="contact"><div class="container dark-inner"><div><h2>Meet us in a first conversation</h2><p>Tell us about your team and the work you want to improve.</p><a class="text-link" id="process" href="../en/index.html#process">See how we work ↗</a></div><a class="btn btn--light" href="../en/index.html#contact">Talk to the team</a></div></section>
 </main>
   <footer class="site-footer"><div class="container"><div class="footer-grid"><div class="footer-brand"><a class="brand" href="../en/index.html" aria-label="The Apps Garden — Home"><img class="brand-mark" src="../img/green_logo_no_name.svg" alt="" width="85" height="119" aria-hidden="true"><span class="brand-name" aria-hidden="true">The Apps Garden</span></a><p>Independent artificial intelligence consultancy</p></div><div><h2>The Apps Garden</h2><a href="../en/index.html">Home</a><a href="../en/about.html">About us</a><a href="../en/services.html">Services</a><a href="../en/products.html">Products</a></div><div><h2>Get in touch</h2><a href="mailto:team@theappsgarden.com">team@theappsgarden.com</a><a href="https://www.linkedin.com/company/the-apps-garden" target="_blank" rel="noopener noreferrer">LinkedIn ↗</a><a href="https://www.instagram.com/theappsgarden/" target="_blank" rel="noopener noreferrer">Instagram ↗</a></div></div><div class="footer-bottom"><span>© The Apps Garden · All rights reserved.</span><div><a href="../es/about.html" lang="es">ES</a><a href="../en/about.html" lang="en">EN</a><a href="../cat/about.html" lang="ca">CAT</a></div></div></div></footer>

diff --git a/css/responsive-overrides.css b/css/responsive-overrides.css
@@ -5,6 +5,7 @@
 }
 @media (max-width: 640px) {
   .site .team-grid { grid-template-columns: 1fr; }
+  .site .team-card h3, .site .team-card .team-specialty { min-height: 0; }
 }
 .site .consulting-page section[id] { scroll-margin-top: 110px; }
 .site .consulting-page .service-price { font-weight: 700; color: var(--green); margin-top: 20px; }

diff --git a/scripts/check-site.py b/scripts/check-site.py
@@ -69,6 +69,9 @@ for page in pages.values():
             check('noopener' in attrs.get('rel', '').split(), page, 'external tab needs noopener')
         if tag == 'img':
             check('alt' in attrs, page, 'image needs alt')
+            if 'team-portrait' in attrs.get('class', '').split():
+                check(attrs.get('width') == '400' and attrs.get('height') == '500',
+                      page, 'team portraits must keep their full 4:5 framing')
 
     # Shared chrome is duplicated in HTML; ensure every depth has the same links.
     text = page.path.read_text()

diff --git a/img/team/SOURCES.md b/img/team/SOURCES.md
@@ -1,12 +1,12 @@
 # Team portraits and biography sources
 
-Biographies reviewed 22 October 2026, using the four LinkedIn profiles supplied by the site owner. Damián’s and Guillem’s portraits were replaced with owner-supplied `damian_tag.jpeg` and `guillem_tag.jpeg` on 2 November 2026. These replacements use top-aligned square crops, resized to 400 × 400 pixels to match the existing portrait cards. Images are locally hosted WebP copies with source metadata removed; the website does not embed LinkedIn images or widgets.
+Biographies reviewed 22 October 2026, using the four LinkedIn profiles supplied by the site owner. All four portraits were replaced on 2 November 2026 with owner-supplied images: `damian_tag.jpeg` (Damián), `guillem_tag.jpeg` (Guillem), `guti.png` (Adrià Gutiérrez) and `martin_tag.png` (Adrià Martín). These replacements preserve the full source frame and are resized to 400 × 500 pixels. The shared portrait styling fills the card’s content width at its natural 4:5 proportions with `object-fit: contain`, keeping upper bodies, forearms and hands visible instead of cropping them into squares. Only the edge-connected light-gray backdrop has been made transparent; the green circles, people and enclosed white clothing are retained. The transparent WebP copies keep the original source images unchanged. Images are locally hosted WebP copies with source metadata removed; the website does not embed LinkedIn images or widgets.
 
 | Person / local image | Public source | Basis for biography |
 | --- | --- | --- |
-| Guillem Gutierrez Martinez / `guillem-gutierrez-martinez.webp` | https://www.linkedin.com/in/guillem-gutierrez-martinez-bb04875b/ | Portrait supplied by the site owner (`guillem_tag.jpeg`). Biography: industrial machinery project descriptions and audiovisual production/management education. Name follows the profile's displayed spelling. |
-| Adrià Gutiérrez Martínez / `adria-gutierrez-martinez.webp` | https://www.linkedin.com/in/adri%C3%A0-guti%C3%A9rrez-mart%C3%ADnez-a83149112/ | Public LinkedIn portrait and summary describing an ICT engineer and managing director with operations/project experience. |
-| Adrià Martín Torrens / `adria-martin-torrens.webp` | https://www.linkedin.com/in/adria-martin-torrens/ | Public LinkedIn portrait, Cegid Revo experience and published Android expense-management project. His exact title at that employer was not available and is not asserted. |
+| Guillem Gutierrez Martinez / `guillem-gutierrez-martinez.webp` | https://www.linkedin.com/in/guillem-gutierrez-martinez-bb04875b/ | Portrait supplied by the site owner (latest revision of `guillem_tag.jpeg`, 2 November 2026). Biography: industrial machinery project descriptions and audiovisual production/management education. Name follows the profile's displayed spelling. |
+| Adrià Gutiérrez Martínez / `adria-gutierrez-martinez.webp` | https://www.linkedin.com/in/adri%C3%A0-guti%C3%A9rrez-mart%C3%ADnez-a83149112/ | Portrait supplied by the site owner (`guti.png`). Biography: public LinkedIn summary describing an ICT engineer and managing director with operations/project experience. |
+| Adrià Martín Torrens / `adria-martin-torrens.webp` | https://www.linkedin.com/in/adria-martin-torrens/ | Portrait supplied by the site owner (`martin_tag.png`). Biography: Cegid Revo experience and published Android expense-management project. His exact title at that employer was not available and is not asserted. |
 | Damián Martínez Carmona / `damian-martinez-carmona.webp` | https://www.linkedin.com/in/damian-martinez-carmona and https://damimartinez.github.io/about/ | Portrait supplied by the site owner (`damian_tag.jpeg`). Biography: LinkedIn search result identifies the name and engineering/entrepreneurship background. The profile blocked direct access; the AI/data-platform background comes from the matching personal website. |
 
 The biographies summarize public professional backgrounds. The site owner separately confirmed the formal roles at The Apps Garden: all four are AI consultants; Adrià Martín Torrens and Damián Martínez Carmona cover the technical area, while Adrià Gutiérrez Martínez and Guillem Gutierrez Martinez cover operations. The role labels on all three About pages reflect this confirmation, not inferred LinkedIn job titles. No invented personal quotations, personal emails, phone numbers or addresses are included. Public profiles can change; review summaries and obtain each member's approval before publication.
